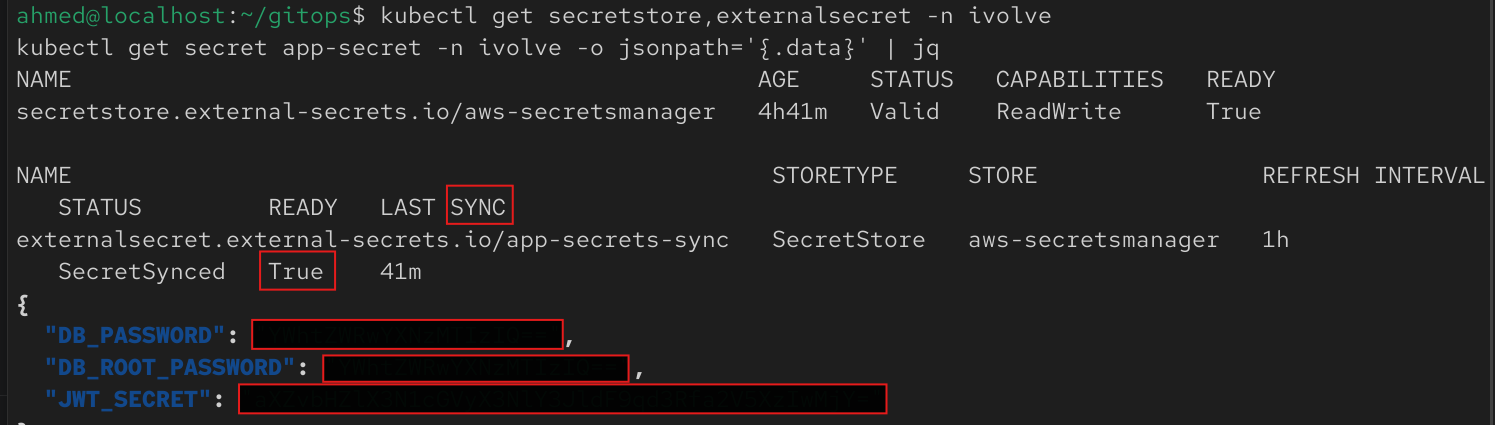
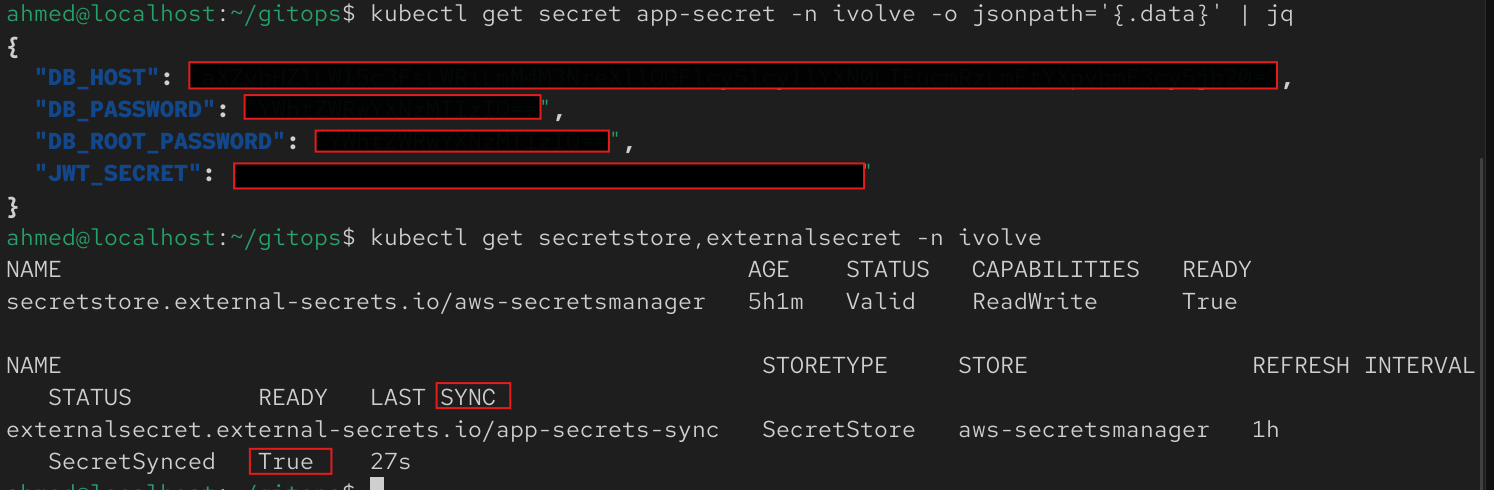
DRY principle,aws-account-id variable

diff --git a/README.md b/README.md
@@ -238,23 +238,21 @@ kubectl get secret app-secret -n ivolve -o jsonpath='{.data}' | jq
 `k8s/` manifests, synced by ArgoCD into the `ivolve` namespace:
 
 * `namespace.yml` — the `ivolve` namespace.
-* `configmap.yml` — `DB_HOST` points **directly at the RDS endpoint** (a plain string, not templated from a Terraform output — see [Known Issues](#known-issues--cleanup-todos)), plus `DB_PORT`, `DB_NAME`, `DB_USER`, and the two inter-service URLs.
+* `configmap.yml` — `DB_PORT`, `DB_NAME`, `DB_USER`, and the two inter-service URLs.
 * `external-secrets.yml` — see above; produces `app-secret`.
 * `frontend-deploy-svc.yml`, `auth-deploy-svc.yml`, `roadmap-deploy-svc.yml` — one Deployment + ClusterIP Service per microservice. `auth-service` and `roadmap-service` pull both `app-config` and `app-secret` via `envFrom`; `frontend-service` only needs the ConfigMap.
 * `ingress.yml` — `frontend-ingress`, ALB, `IngressGroup: ivolve-shared-alb`, `group.order: "10"` (shares the ALB with Grafana's ingress from the monitoring stack, which uses `group.order: "1"` to take priority on its more specific `/grafana` path).
 
-**No StorageClass, no StatefulSet, no PVC** — removing the in-cluster database also removed the entire EBS CSI driver dependency that the old project needed.
 
 ### Test Results
 
-> **Screenshot needed.** The existing "Kubernetes" screenshot in this repo is reused from the old project and shows a `mysql-0` pod that has no business existing here — see [Known Issues](#known-issues--cleanup-todos). Capture a fresh:
-> ```bash
-> kubectl get pods -n ivolve
-> kubectl get svc -n ivolve
-> kubectl get ingress -n ivolve
-> ```
-> Expected: **exactly 3 pods** (`frontend-service`, `auth-service`, `roadmap-service`), all `Running`, `0` restarts — no `mysql-0`.
+```bash
+ kubectl get pods -n ivolve
+ kubectl get svc -n ivolve
+ kubectl get ingress -n ivolve
+ ```
 
+![alt text](screenshots/k8s.png)
 ---
 
 ## Continuous Integration with GitHub Actions
@@ -310,7 +308,8 @@ GitHub mints a short-lived OIDC token per run; AWS validates it against `GitHubA
 
 ### Test Results
 
-> **Screenshot needed** — capture the GitHub **Actions** tab showing all three workflows green, and the "Configure AWS Credentials" step succeeding. The existing CI-labeled screenshots in this repo are Jenkins dashboards from the old project and don't apply here.
+![alt text](screenshots/github.png)
+![alt text](screenshots/github-2.png)
 
 ---
 
